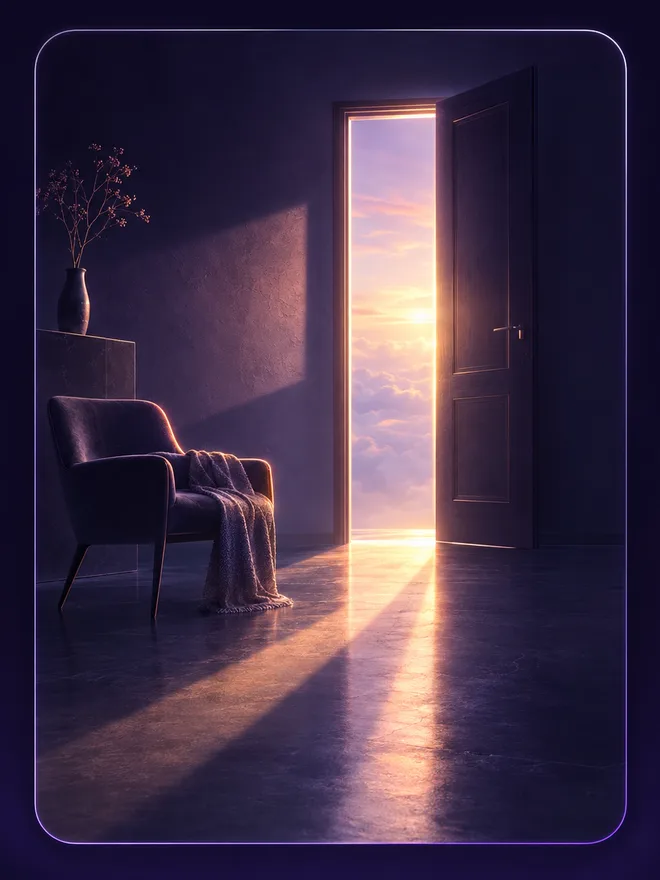
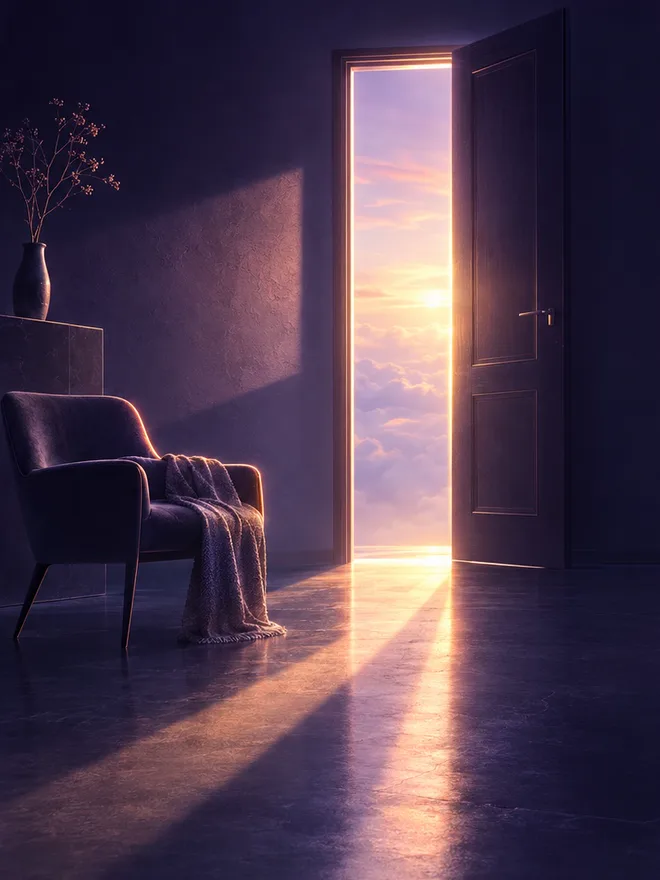
Re-crop association card images inside their baked-in frames

diff --git a/app.js b/app.js
@@ -869,7 +869,7 @@ const ASSOCIATION_DECK = [
   {
     id: 'A001',
     internalName: 'Дверь',
-    image: 'assets/association-cards/A001.webp',
+    image: 'assets/association-cards/A001.webp?v=2',
     elements: [
       {
         id: 'door',
@@ -900,7 +900,7 @@ const ASSOCIATION_DECK = [
   {
     id: 'A002',
     internalName: 'Лодка',
-    image: 'assets/association-cards/A002.webp',
+    image: 'assets/association-cards/A002.webp?v=2',
     elements: [
       {
         id: 'boat',
@@ -931,7 +931,7 @@ const ASSOCIATION_DECK = [
   {
     id: 'A003',
     internalName: 'Развилка',
-    image: 'assets/association-cards/A003.webp',
+    image: 'assets/association-cards/A003.webp?v=2',
     elements: [
       {
         id: 'light_path',
@@ -962,7 +962,7 @@ const ASSOCIATION_DECK = [
   {
     id: 'A004',
     internalName: 'Мост',
-    image: 'assets/association-cards/A004.webp',
+    image: 'assets/association-cards/A004.webp?v=2',
     elements: [
       {
         id: 'bridge',
@@ -993,7 +993,7 @@ const ASSOCIATION_DECK = [
   {
     id: 'A005',
     internalName: 'Открытая клетка',
-    image: 'assets/association-cards/A005.webp',
+    image: 'assets/association-cards/A005.webp?v=2',
     elements: [
       {
         id: 'bird',
@@ -1024,7 +1024,7 @@ const ASSOCIATION_DECK = [
   {
     id: 'A006',
     internalName: 'Лестница',
-    image: 'assets/association-cards/A006.webp',
+    image: 'assets/association-cards/A006.webp?v=2',
     elements: [
       {
         id: 'first_step',
@@ -1055,7 +1055,7 @@ const ASSOCIATION_DECK = [
   {
     id: 'A007',
     internalName: 'Чемодан',
-    image: 'assets/association-cards/A007.webp',
+    image: 'assets/association-cards/A007.webp?v=2',
     elements: [
       {
         id: 'suitcase',
@@ -1086,7 +1086,7 @@ const ASSOCIATION_DECK = [
   {
     id: 'A008',
     internalName: 'Стена',
-    image: 'assets/association-cards/A008.webp',
+    image: 'assets/association-cards/A008.webp?v=2',
     elements: [
       {
         id: 'wall',
@@ -1117,7 +1117,7 @@ const ASSOCIATION_DECK = [
   {
     id: 'A009',
     internalName: 'Два стула',
-    image: 'assets/association-cards/A009.webp',
+    image: 'assets/association-cards/A009.webp?v=2',
     elements: [
       {
         id: 'first_chair',

diff --git a/index.html b/index.html
@@ -285,6 +285,6 @@
     </main>
   </div>
 
-  <script src="app.js?v=25"></script>
+  <script src="app.js?v=26"></script>
 </body>
 </html>
